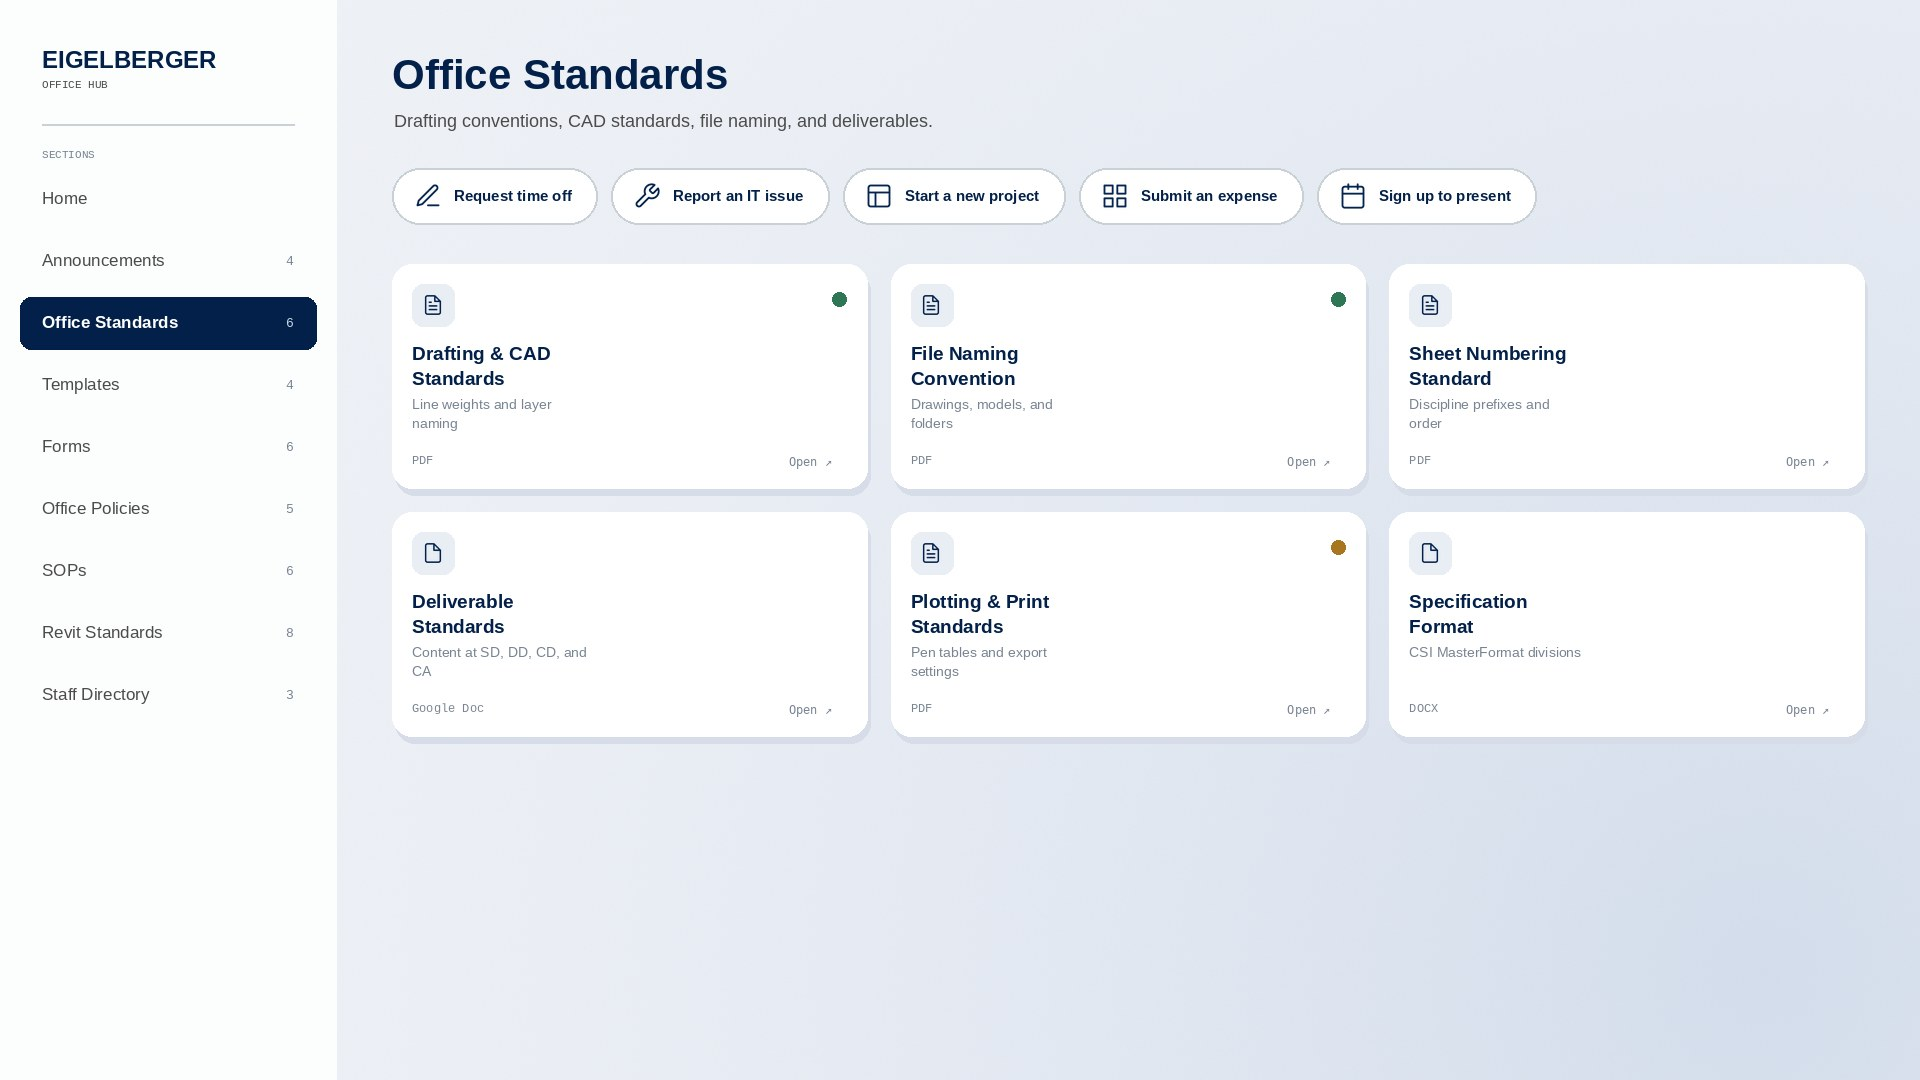
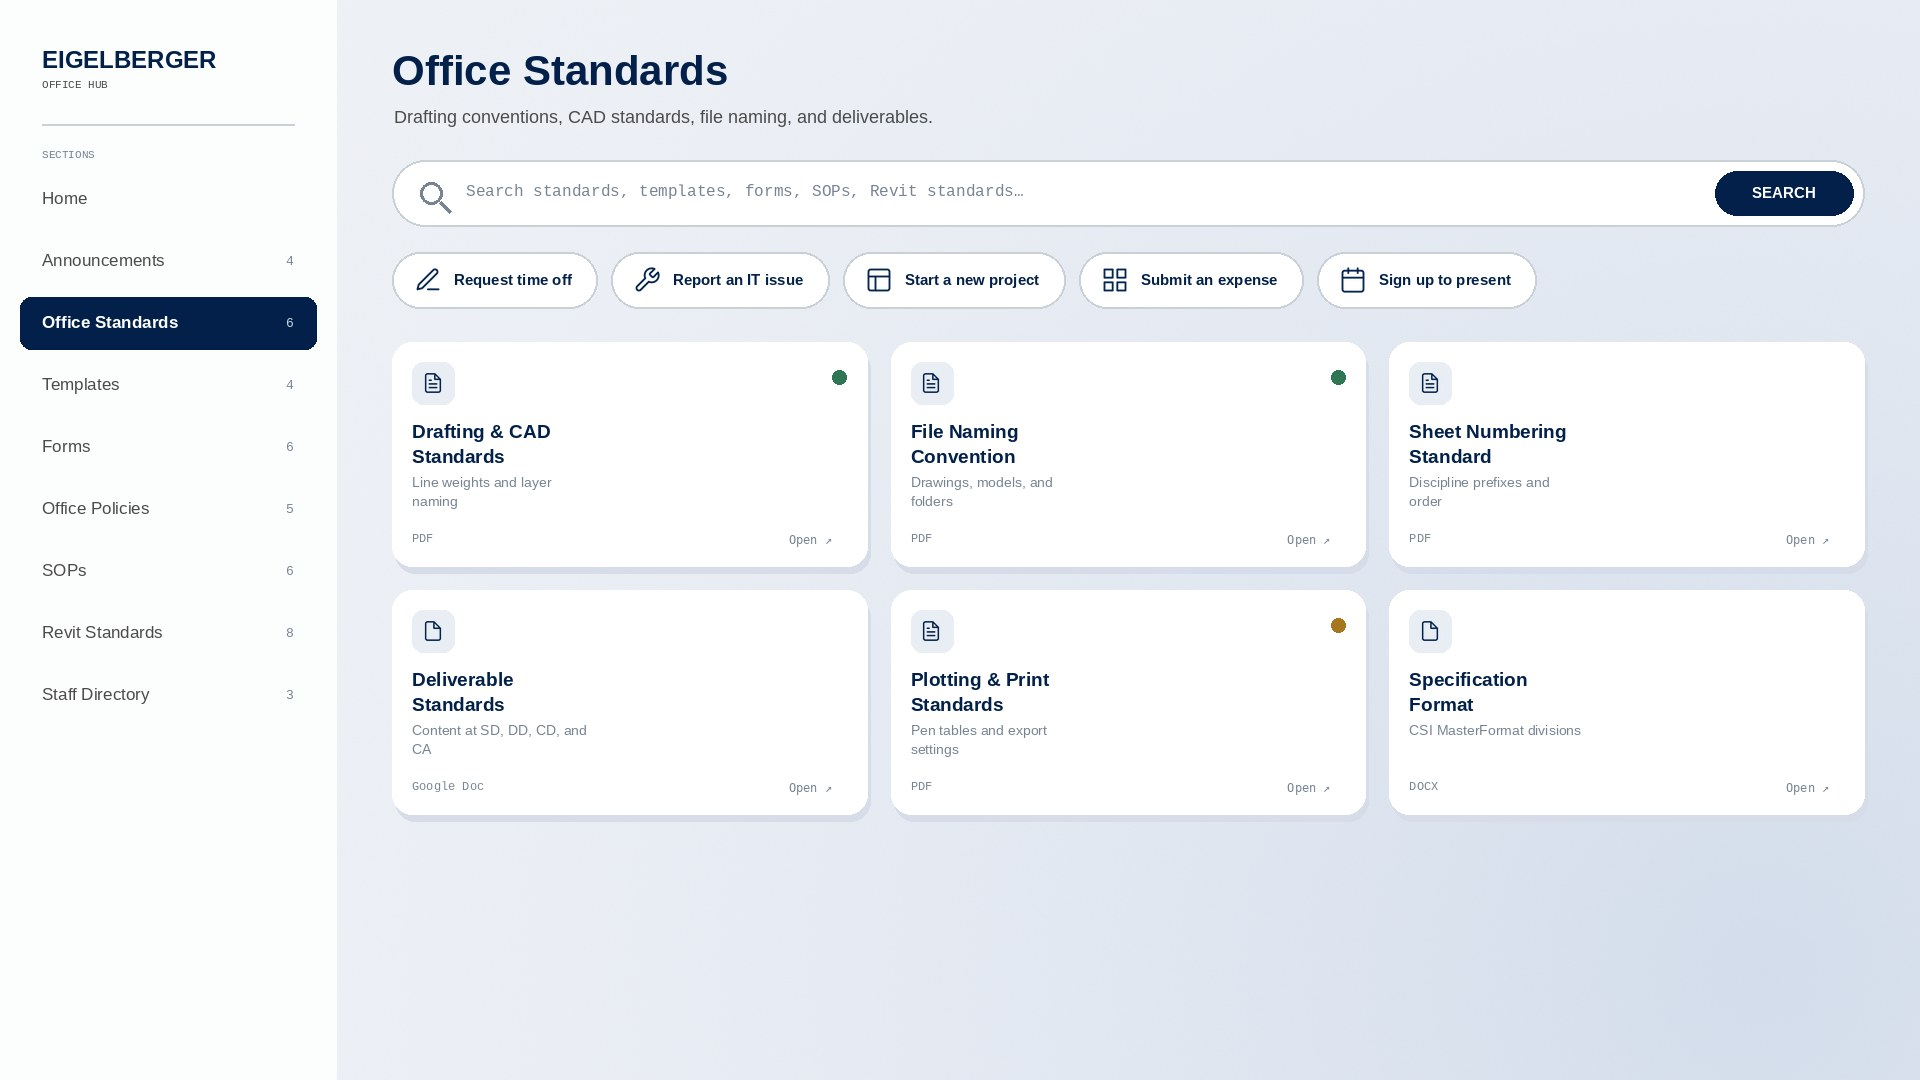
Restore the search bar across the surface studies
Full width under the page heading, action bubbles beneath it, cards below.
Colours follow each theme: white pill on the dark fields, hairline-bordered
on the light one, and a dark panel with a light button on the monochrome
treatment where a white pill would have been too stark.

Claude-Session: https://claude.ai/code/session_01YAQcUYpy57Up3cir28mVUA

Changed region(s): [[0.2188, 0.1222, 0.9688, 0.7639], [0.1875, 0.0306, 0.5, 0.1222]]

diff --git a/design/gen_surfaces.py b/design/gen_surfaces.py
@@ -42,7 +42,9 @@ class T:
     """Surface theme."""
     def __init__(self, name, field, card, title, sub, label, bubble_fill, bubble_text,
                  bubble_edge=None, rail_fill=WHITE, rail_text=CHAR, rail_head=NAVY,
-                 rail_active=NAVY, rail_active_text=(255, 255, 255)):
+                 rail_active=NAVY, rail_active_text=(255, 255, 255),
+                 search_fill=(255, 255, 255), search_text=MUTE, search_edge=None,
+                 search_btn=NAVY, search_btn_text=(255, 255, 255)):
         self.__dict__.update(locals()); del self.self
 
 
@@ -67,11 +69,28 @@ def rail(im, d, t):
     return d
 
 
+def search_bar(im, d, t, y, height=66):
+    d.rounded_rectangle([CX0, y, CX1, y + height], radius=height // 2,
+                        fill=t.search_fill, outline=t.search_edge, width=2)
+    cy = y + height // 2
+    d.ellipse([CX0 + 28, cy - 11, CX0 + 50, cy + 11], outline=t.search_text, width=3)
+    d.line([CX0 + 48, cy + 9, CX0 + 58, cy + 19], fill=t.search_text, width=3)
+    d.text((CX0 + 74, cy - 11), "Search standards, templates, forms, SOPs, Revit standards…",
+           font=f(FM, 16), fill=t.search_text)
+    bw = 138
+    d.rounded_rectangle([CX1 - bw - 11, y + 11, CX1 - 11, y + height - 11],
+                        radius=(height - 22) // 2, fill=t.search_btn)
+    tw = d.textlength("SEARCH", font=f(FB, 15))
+    d.text((CX1 - 11 - bw / 2 - tw / 2, cy - 9), "SEARCH", font=f(FB, 15), fill=t.search_btn_text)
+    return y + height
+
+
 def header(im, d, t):
-    d.text((CX0, 50), "Office Standards", font=f(FB, 42), fill=t.title)
-    d.text((CX0 + 2, 110), "Drafting conventions, CAD standards, file naming, and deliverables.",
+    d.text((CX0, 46), "Office Standards", font=f(FB, 42), fill=t.title)
+    d.text((CX0 + 2, 106), "Drafting conventions, CAD standards, file naming, and deliverables.",
            font=f(FR, 18), fill=t.sub)
-    x, by = CX0, 168
+    sy = search_bar(im, d, t, 160)
+    x, by = CX0, sy + 26
     for label, ic in ACTIONS:
         tw = int(d.textlength(label, font=f(FB, 15))) + 88
         d.rounded_rectangle([x, by, x + tw, by + 56], radius=28, fill=t.bubble_fill,
@@ -145,7 +164,7 @@ def make(name, field_fn, card_fn, **kw):
         d = ImageDraw.Draw(im)
         d = rail(im, d, t)
         d, y = header(im, d, t)
-        grid(im, d, t, y + 40)
+        grid(im, d, t, y + 34)
         return im
     LAYOUTS.append((name, render))
 
@@ -204,7 +223,8 @@ make("34  SOFT LIGHT", soft_light,
                                         NAVY, MUTE, (233, 238, 245), False, False,
                                         elevate=(214, 221, 232)),
      title=NAVY, sub=CHAR, label=MUTE,
-     bubble_fill=(255, 255, 255), bubble_text=NAVY, bubble_edge=HAIR)
+     bubble_fill=(255, 255, 255), bubble_text=NAVY, bubble_edge=HAIR,
+     search_edge=HAIR)
 
 make("35  ELEVATED NAVY", navy_bloom,
      lambda im, d, b, doc, t: card_body(im, d, b, doc, t, (12, 52, 102), None, 20,
@@ -231,7 +251,9 @@ make("38  MONOCHROME", mono,
      title=(244, 246, 249), sub=(158, 170, 186), label=(158, 170, 186),
      bubble_fill=None, bubble_text=(230, 235, 242), bubble_edge=(74, 86, 102),
      rail_fill=(24, 30, 40), rail_text=(196, 204, 216), rail_head=(255, 255, 255),
-     rail_active=(255, 255, 255), rail_active_text=(18, 24, 34))
+     rail_active=(255, 255, 255), rail_active_text=(18, 24, 34),
+     search_fill=(30, 38, 50), search_text=(146, 158, 174), search_edge=(58, 70, 86),
+     search_btn=(240, 243, 247), search_btn_text=(18, 24, 34))
 
 make("39  TINTED CARDS", navy_bloom,
      lambda im, d, b, doc, t: card_body(im, d, b, doc, t,
